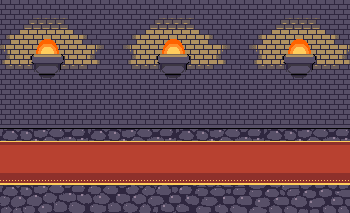
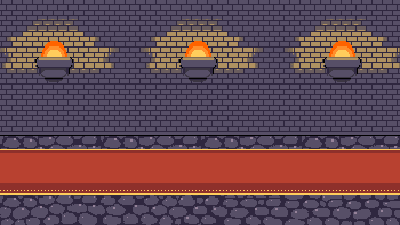
Added background image

diff --git a/js/script.js b/js/script.js
@@ -1,9 +1,5 @@
 function drawBackground() {
-    ctx.fillStyle = "#FFFFFF";
-    ctx.fillRect(0, 0, W_WIDTH, W_HEIGHT);
-
-    ctx.fillStyle = "#000000";
-    ctx.fillRect(0, GROUND_LEVEL, W_WIDTH, 1);
+    ctx.drawImage(background_image, 0, 0);
 }
 
 function drawPlayer() {
@@ -80,6 +76,9 @@ $(document).ready(function(){
 
     var canvas = document.getElementById('canvas');
     ctx = canvas.getContext('2d');
+
+    background_image = new Image();
+    background_image.src = "images/background.png";
 
 
     player_x = Math.round(W_WIDTH / 2);
